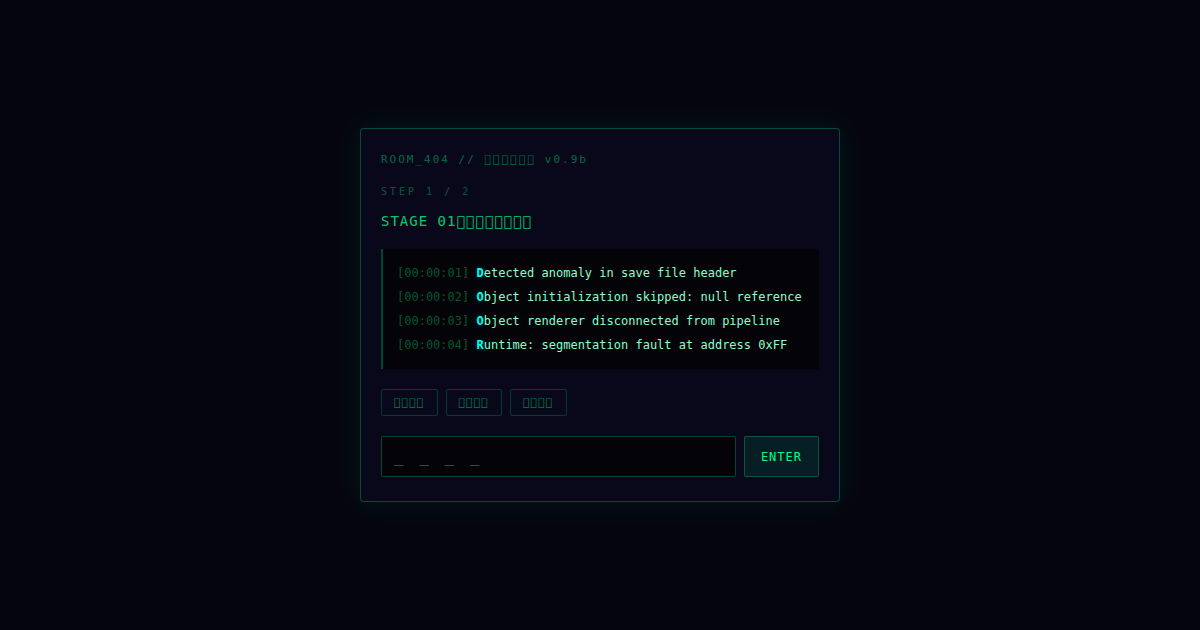
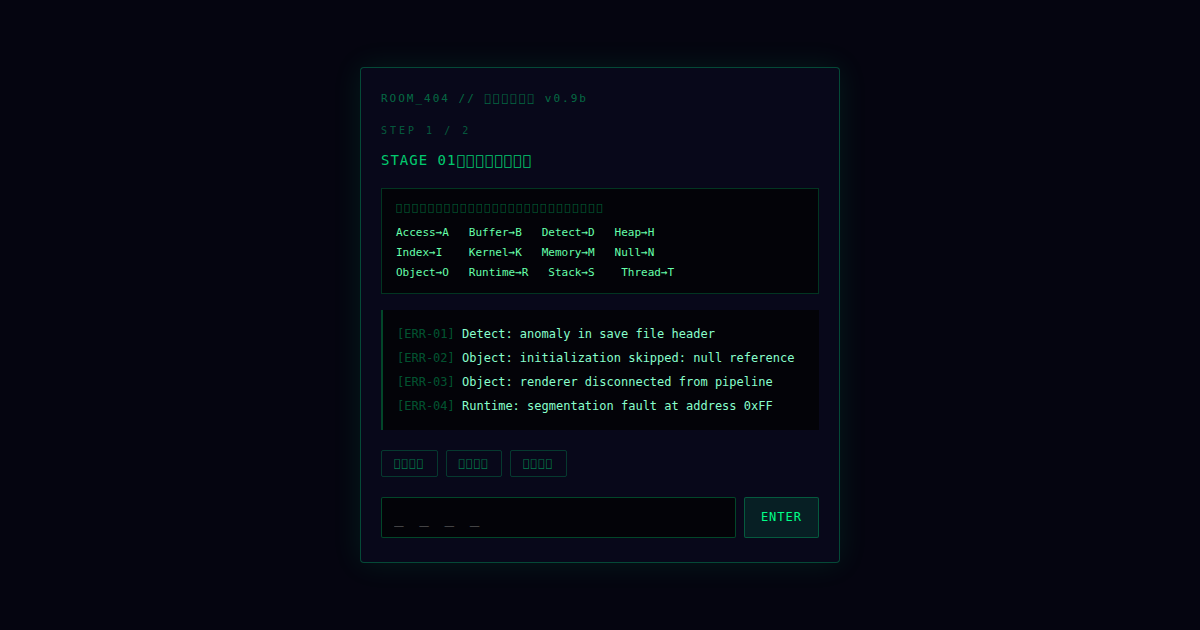
Add OGP images and meta tags

diff --git a/ep01.html b/ep01.html
@@ -70,6 +70,8 @@
   .log-time { color: #00ff8855; }
   .log-text { color: #88ffcc; }
   .key-char { color: #00ffee; text-shadow: 0 0 6px #00ffee55; font-weight: bold; }
+  .code-table { background: #030308; border: 1px solid #00ff8833; padding: 10px 14px; margin-bottom: 16px; font-size: 11px; color: #66ffaa; line-height: 1.8; }
+  .code-table-title { font-size: 10px; color: #00ff8866; letter-spacing: 2px; margin-bottom: 6px; }
 
   .hint-area {
     margin-bottom: 20px;
@@ -278,25 +280,32 @@
     <div class="step-label">STEP 1 / 2</div>
     <div class="stage-title">STAGE 01「デバッグログ」</div>
 
+    <div class="code-table">
+      <div class="code-table-title">エラー分類コード表（野々村の開発マニュアルより抜粋）</div>
+      Access→A &nbsp; Buffer→B &nbsp; Detect→D &nbsp; Heap→H<br>
+      Index→I &nbsp;&nbsp; Kernel→K &nbsp; Memory→M &nbsp; Null→N<br>
+      Object→O &nbsp; Runtime→R &nbsp; Stack→S &nbsp;&nbsp; Thread→T
+    </div>
+
     <div class="log-block">
-      <span class="log-line"><span class="log-time">[00:00:01]</span> <span class="log-text"><span class="key-char">D</span>etected anomaly in save file header</span></span>
-      <span class="log-line"><span class="log-time">[00:00:02]</span> <span class="log-text"><span class="key-char">O</span>bject initialization skipped: null reference</span></span>
-      <span class="log-line"><span class="log-time">[00:00:03]</span> <span class="log-text"><span class="key-char">O</span>bject renderer disconnected from pipeline</span></span>
-      <span class="log-line"><span class="log-time">[00:00:04]</span> <span class="log-text"><span class="key-char">R</span>untime: segmentation fault at address 0xFF</span></span>
+      <span class="log-line"><span class="log-time">[ERR-01]</span> <span class="log-text">Detect: anomaly in save file header</span></span>
+      <span class="log-line"><span class="log-time">[ERR-02]</span> <span class="log-text">Object: initialization skipped: null reference</span></span>
+      <span class="log-line"><span class="log-time">[ERR-03]</span> <span class="log-text">Object: renderer disconnected from pipeline</span></span>
+      <span class="log-line"><span class="log-time">[ERR-04]</span> <span class="log-text">Runtime: segmentation fault at address 0xFF</span></span>
     </div>
 
     <div class="hint-area">
       <div>
         <button class="hint-btn" id="h1-btn1" onclick="toggleHint('h1-hint1', 'h1-btn1', null)">ヒント①</button>
-        <div class="hint-text" id="h1-hint1">タイムスタンプ [00:00:01] や 0xFF のような数字は関係ない。ログのテキスト部分だけを見よう。</div>
+        <div class="hint-text" id="h1-hint1">各エラー行の先頭にある単語（Detect / Object / Object / Runtime）が、エラーの「分類」を示している。</div>
       </div>
       <div>
         <button class="hint-btn" id="h1-btn2" onclick="toggleHint('h1-hint2', 'h1-btn2', 'h1-hint1')">ヒント②</button>
-        <div class="hint-text" id="h1-hint2">4行それぞれで、最初に登場する英単語に注目してみよう。</div>
+        <div class="hint-text" id="h1-hint2">上のコード表でその分類を引くと、それぞれ1文字のコードに対応している。4行分引いてみよう。</div>
       </div>
       <div>
         <button class="hint-btn" id="h1-btn3" onclick="toggleHint('h1-hint3', 'h1-btn3', 'h1-hint2')">ヒント③</button>
-        <div class="hint-text" id="h1-hint3">その4つの単語の頭文字を上から順に並べると、4文字の英単語になる。Detected / Object / Object / Runtime ——。</div>
+        <div class="hint-text" id="h1-hint3">Detect→D, Object→O, Object→O, Runtime→R。上から順に並べると4文字の英単語になる。</div>
       </div>
     </div>
 
@@ -316,21 +325,23 @@
       上の「ROOM_404タイトル画面」の画像をもう一度見てください。
     </div>
     <div class="note-instruction">
-      明るく輝く星だけを追うと、数字が見えてくるはずです。
+      画面は左右に分割されています。<br>
+      SECTOR_01（左）とSECTOR_02（右）それぞれに、明るく輝く星がいくつあるか数えてみよう。<br>
+      セクター番号順に2桁で答えよ。
     </div>
 
     <div class="hint-area">
       <div>
         <button class="hint-btn" id="h2-btn1" onclick="toggleHint('h2-hint1', 'h2-btn1', null)">ヒント①</button>
-        <div class="hint-text" id="h2-hint1">画面全体をぼんやり見てみよう。薄暗い星の中に、明らかに他より明るく輝いている星がある。</div>
+        <div class="hint-text" id="h2-hint1">明るく輝く金色の星と、薄暗い青みがかった星がある。金色の星だけを数えよう。</div>
       </div>
       <div>
         <button class="hint-btn" id="h2-btn2" onclick="toggleHint('h2-hint2', 'h2-btn2', 'h2-hint1')">ヒント②</button>
-        <div class="hint-text" id="h2-hint2">明るい星は画面の左側と右側に分かれて集まっている。それぞれの塊を独立したグループとして見てみよう。</div>
+        <div class="hint-text" id="h2-hint2">中央の破線で画面が左右に分かれている。SECTOR_01（左）の金色の星の数と、SECTOR_02（右）の金色の星の数を、それぞれ別々に数えよう。</div>
       </div>
       <div>
         <button class="hint-btn" id="h2-btn3" onclick="toggleHint('h2-hint3', 'h2-btn3', 'h2-hint2')">ヒント③</button>
-        <div class="hint-text" id="h2-hint3">左の塊と右の塊が、それぞれ1つの数字の形を作っている。2つの数字を左から順に並べると、2桁の答えになる。</div>
+        <div class="hint-text" id="h2-hint3">SECTOR_01に4つ、SECTOR_02に2つ。セクター番号順に並べると2桁の数字になる。</div>
       </div>
     </div>
 

diff --git a/ep02.html b/ep02.html
@@ -240,6 +240,7 @@
 
   .critical-tag { color: #ff6644; }
   .key-num { color: #ffdd44; text-shadow: 0 0 5px #ffdd4455; font-weight: bold; font-size: 14px; }
+  .binary-label { font-size: 10px; color: #00ff8855; letter-spacing: 1px; margin-bottom: 6px; display: block; }
 </style>
 
   <!-- OGP -->
@@ -298,22 +299,23 @@
     <div class="stage-title">STAGE 02「クリティカルログ」</div>
 
     <div class="log-block">
-      <span style="display:block"><span class="critical-tag">[CRITICAL]</span> ERR_<span class="key-num">0</span>: 予期しない終了</span>
-      <span style="display:block"><span class="critical-tag">[CRITICAL]</span> ERR_<span class="key-num">7</span>: メモリ解放失敗</span>
+      <span class="binary-label">※ このシステムのCRITICALエラーコードは2進数で記録されている</span>
+      <span style="display:block"><span class="critical-tag">[CRITICAL]</span> ERR:<span class="key-num">00000000</span> - 予期しない終了</span>
+      <span style="display:block"><span class="critical-tag">[CRITICAL]</span> ERR:<span class="key-num">00000111</span> - メモリ解放失敗</span>
     </div>
 
     <div class="hint-area">
       <div>
         <button class="hint-btn" id="h2-btn1" onclick="toggleHint('h2-hint1','h2-btn1',null)">ヒント①</button>
-        <div class="hint-text" id="h2-hint1">[CRITICAL] というタグや「予期しない終了」という説明は関係ない。ERR_ の部分だけを見よう。</div>
+        <div class="hint-text" id="h2-hint1">[CRITICAL] タグや説明文は関係ない。ERR: に続く数字の羅列に注目しよう。これは2進数（0と1だけで表された数）だ。</div>
       </div>
       <div>
         <button class="hint-btn" id="h2-btn2" onclick="toggleHint('h2-hint2','h2-btn2','h2-hint1')">ヒント②</button>
-        <div class="hint-text" id="h2-hint2">ERR_ の後ろに数字がついている。2行あるので、それぞれ1桁ずつ取れる。</div>
+        <div class="hint-text" id="h2-hint2">2進数を10進数に変換してみよう。00000000 は 0 。00000111 は… 4+2+1 = 7 だ。</div>
       </div>
       <div>
         <button class="hint-btn" id="h2-btn3" onclick="toggleHint('h2-hint3','h2-btn3','h2-hint2')">ヒント③</button>
-        <div class="hint-text" id="h2-hint3">ERR_0 と ERR_7、上から順に並べると「07」になる。0から始まる2桁の数字として入力しよう。</div>
+        <div class="hint-text" id="h2-hint3">1行目が 0、2行目が 7。上から順に並べると「07」になる。0から始まる2桁として入力しよう。</div>
       </div>
     </div>
 
